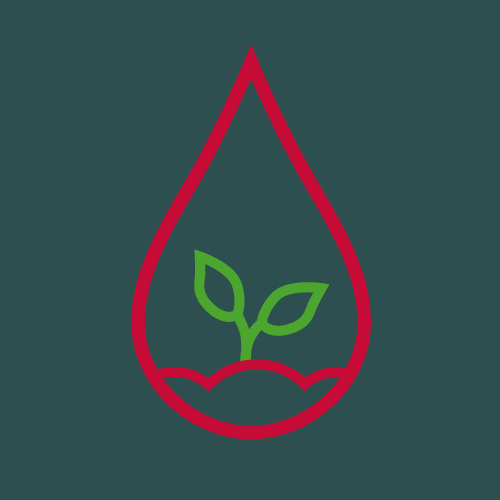
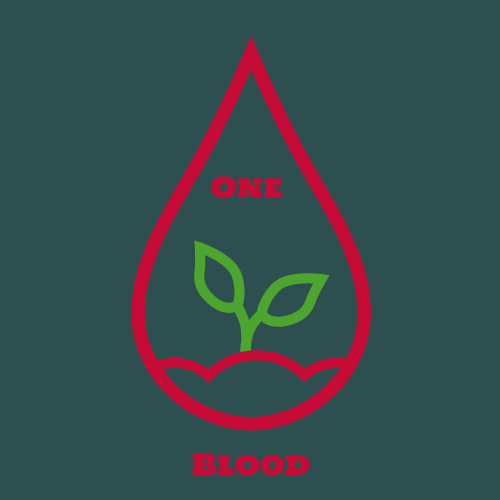
NavBar Stuff

Changed region(s): [[0.24, 0.48, 0.75, 0.96], [0.24, 0.06, 0.75, 0.63]]

diff --git a/client/src/components/NavBar.js b/client/src/components/NavBar.js
@@ -2,4 +2,47 @@ import React from 'react'
 import styled from 'styled-components'
 
 import bloody from '../assets/BloodLove.jpg'
-import NavvyLinks from '../components/NavvyLi'
+import NavvyLinks from '../components/NavvyLinks.js'
+import { NLink } from './styledcomponents/NLink.js'
+
+const NavBarContainer = styled.div`
+    display: flex;
+    align-items: center;
+    justify-content: space-between;
+    width: 100%;
+    height: 130px;
+    position: relative;
+    background-color: #286653;
+    top: 0;
+    left: 0;
+    right: 0;
+`
+
+const Header = styled.div`
+    margin: 24px 0 24px 5%;
+`
+
+const HeaderLogoLink = styled(NLink)`
+    :hover {
+        border: none;
+    }
+`
+
+const HeaderLogo = styled.img`
+    max-height: 75px;
+    width: auto;
+    height: auto;
+`
+
+export default function NavBar(props){
+    return(
+        <NavBarContainer>
+            <Header>
+                <HeaderLogoLink to="/">
+                    <HeaderLogo src={bloody} alt="One Blood Mon!" />
+                </HeaderLogoLink>
+            </Header>
+            <NavvyLinks />
+        </NavBarContainer>
+    )
+}
